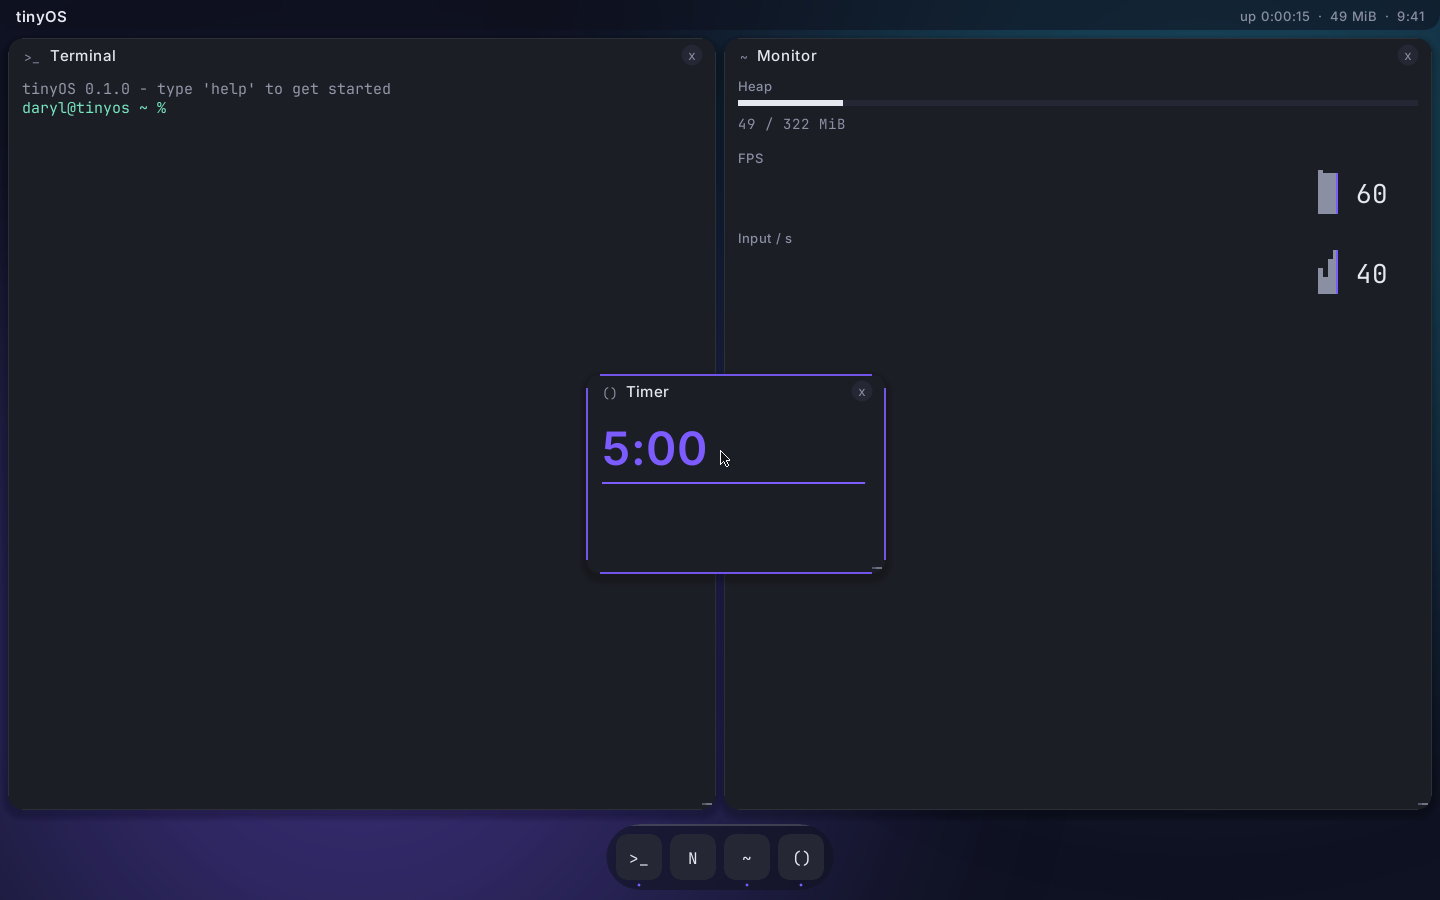
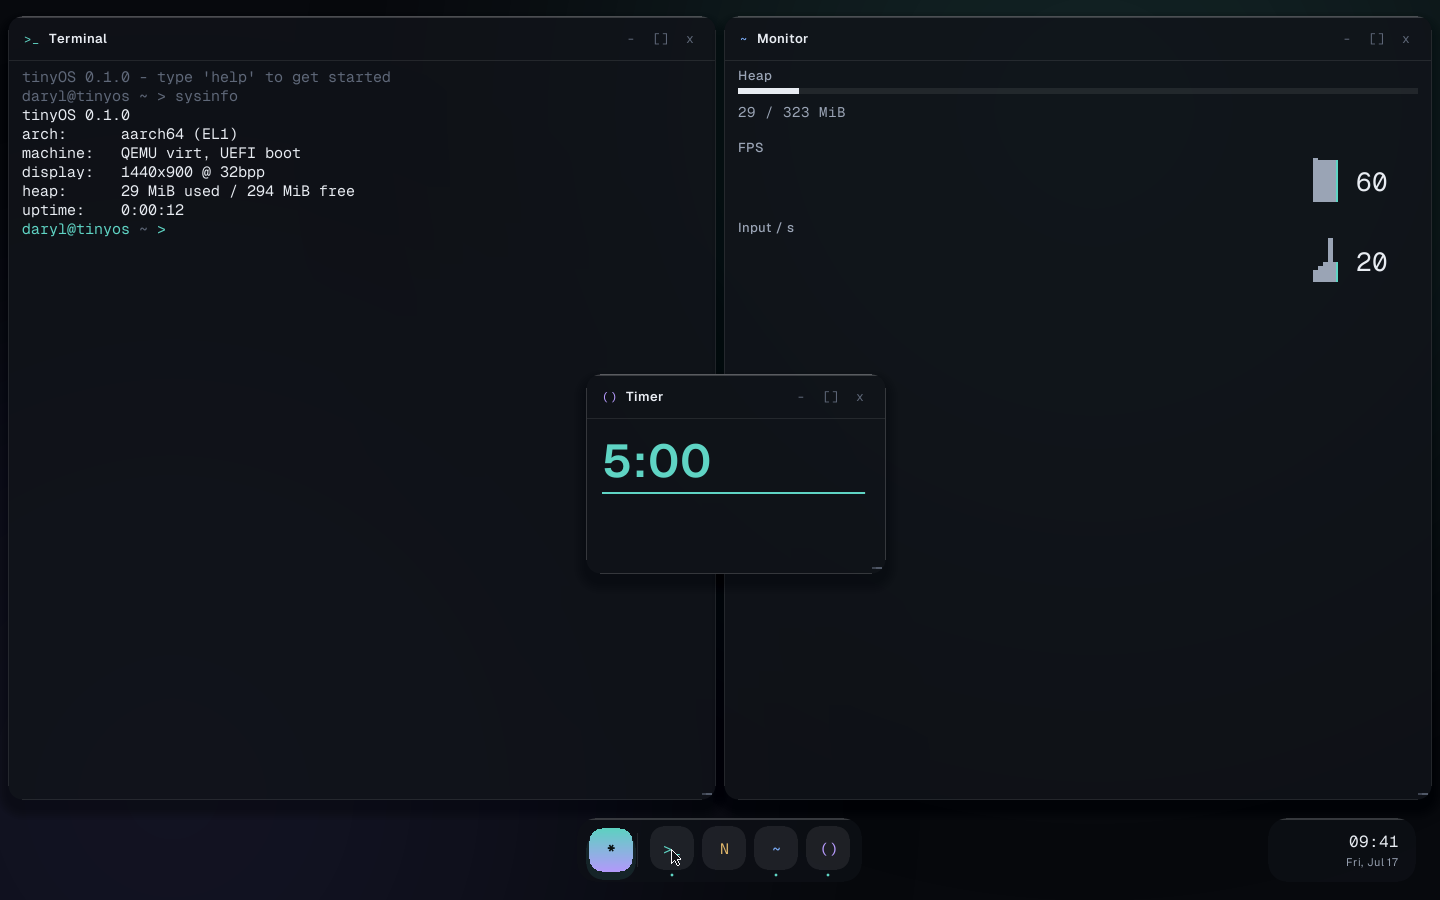
meridian: terminal prompt restyle, docs, screenshots, x86_64 smoke

diff --git a/kernel/src/term/mod.rs b/kernel/src/term/mod.rs
@@ -14,12 +14,15 @@ use crate::{mem, VERSION};
 pub const CELL_W: i32 = 9;
 pub const CELL_H: i32 = 19;
 
-const FG: u32 = rgb(228, 228, 236);
-const ACCENT: u32 = rgb(120, 230, 190);
-const DIM: u32 = rgb(150, 150, 168);
-const ERR: u32 = rgb(255, 122, 110);
+const FG: u32 = rgb(0xe8, 0xec, 0xf2);
+const ACCENT: u32 = rgb(0x5f, 0xd4, 0xc4);
+const DIM: u32 = rgb(0x5f, 0x68, 0x79);
+const ERR: u32 = rgb(0xff, 0x9e, 0x9e);
 
-const PROMPT: &str = "daryl@tinyos ~ % ";
+const PROMPT_USER: &str = "daryl@tinyos";
+const PROMPT_PATH: &str = " ~ ";
+const PROMPT_CHEVRON: &str = "> ";
+const PROMPT: &str = "daryl@tinyos ~ > ";
 const SCROLLBACK: usize = 400;
 
 pub struct Terminal {
@@ -202,9 +205,13 @@ impl Terminal {
             row += 1;
         }
 
-        // Prompt line with block cursor.
+        // Prompt line with block cursor: user teal, path dim, chevron teal.
         let y = oy + row as i32 * CELL_H;
-        fonts.mono.draw(surface, PROMPT, 15.0, ox, y, ACCENT);
+        fonts.mono.draw(surface, PROMPT_USER, 15.0, ox, y, ACCENT);
+        let path_x = ox + PROMPT_USER.len() as i32 * CELL_W;
+        fonts.mono.draw(surface, PROMPT_PATH, 15.0, path_x, y, DIM);
+        let chev_x = path_x + PROMPT_PATH.len() as i32 * CELL_W;
+        fonts.mono.draw(surface, PROMPT_CHEVRON, 15.0, chev_x, y, ACCENT);
         let px = ox + PROMPT.len() as i32 * CELL_W;
         fonts.mono.draw(surface, &self.input, 15.0, px, y, FG);
 

diff --git a/README.md b/README.md
@@ -57,6 +57,5 @@ kernel/src/
 
 Design doc: `docs/superpowers/specs/2026-07-17-tinyos-design.md`.
 
-Fonts: [Inter](https://rsms.me/inter/) and
-[JetBrains Mono](https://www.jetbrains.com/lp/mono/), both OFL (licenses in
+Fonts: [Geist and Geist Mono](https://vercel.com/font), OFL (license in
 `assets/`). Inspired by [Philipp Oppermann's blog_os](https://os.phil-opp.com).